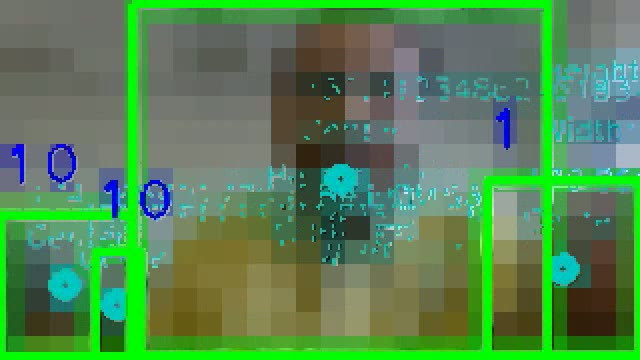
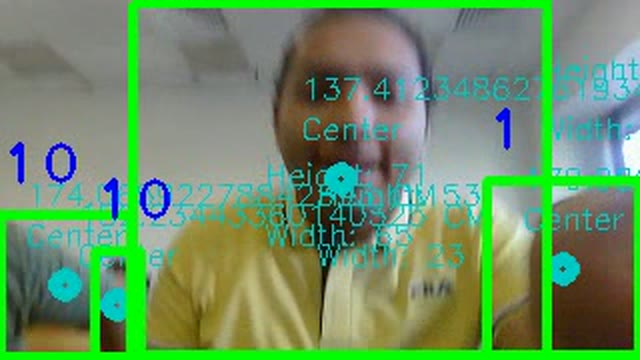
docs: show the tracking recording unblurred (consent given)

diff --git a/README.md b/README.md
@@ -15,8 +15,7 @@ Bachelor project *Cooperative Perception and Control for Connected Vehicles* (20
 ![Detection and tracking on the project's test recording](docs/assets/hero_tracking.gif)
 
 <sub>The project's own recording: YOLOv8n (OpenVINO) detections with Euclidean-tracker IDs (blue), box
-centres and distance read-outs. The frames are pixelated for privacy; the overlays are the original
-pipeline output.</sub>
+centres and distance read-outs, straight from the pipeline. Shown with the consent of the people in it.</sub>
 
 | Close-range detection | Track IDs over time | Multiple tracked people |
 |---|---|---|
@@ -203,7 +202,7 @@ mkdir weights && gh release download v1.0.0 -D weights   # or download the asset
 python detection/yolov8_detect_distance.py --weights weights/yolov8n_custom_last.pt --source 0
 python detection/yolov5_detect_distance.py --weights weights/yolov5s_custom_last.pt --source road.mp4
 python detection/yolov8n_openvino_detect.py --source road.mp4          # exports yolov8n to OpenVINO first
-python detection/benchmark_fps.py --video weights/detection_tracking_demo_anonymized.mp4 \
+python detection/benchmark_fps.py --video weights/detection_tracking_demo.mp4 \
   --models weights/yolov8n_custom_last.pt weights/yolov8n_custom_last.onnx weights/yolov8n_custom_last_openvino_model
 python detection/tf2/ssd_mobilenet_webcam.py --tfod-root /path/to/Tensorflow   # needs the TF Object Detection API
 ```
@@ -255,7 +254,7 @@ LANE_MODEL=/path/lane_cnn_model.h5 rosrun ros_opencv camera_LaneDetection_mono.p
 | `yolov5s_custom_last.pt` | Custom 13-class YOLOv5s (load with `torch.hub.load('ultralytics/yolov5', 'custom', ...)`) |
 | `yolov8n_coco.pt` / `.onnx`, `yolov8n_coco_openvino_model.zip` | Stock Ultralytics COCO YOLOv8n (baseline; the OpenVINO IR is the one the project used) |
 | `lane_cnn_model.h5` | Keras lane-segmentation model used by the lane scripts (160×80 input) |
-| `detection_tracking_demo_anonymized.mp4` | Full 2 min test recording of detection + tracking, pixelated for privacy |
+| `detection_tracking_demo.mp4` | Full 2 min test recording of detection + tracking (640×360, H.264) |
 
 ## My role
 
